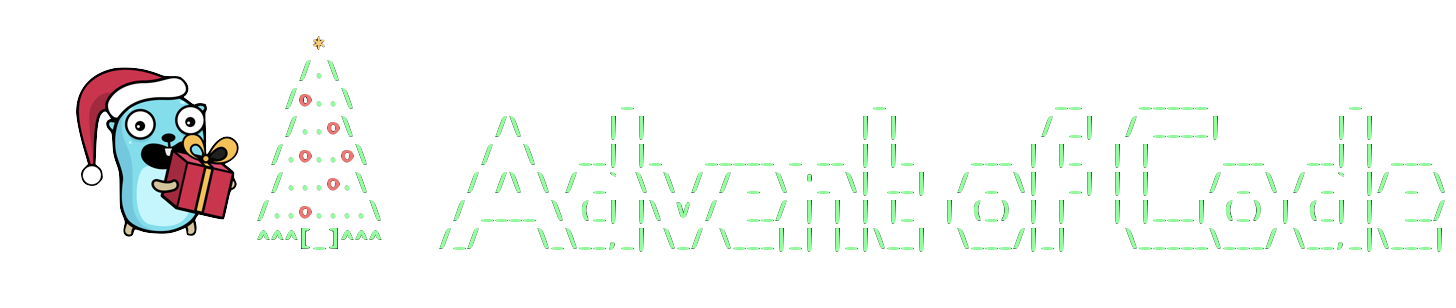
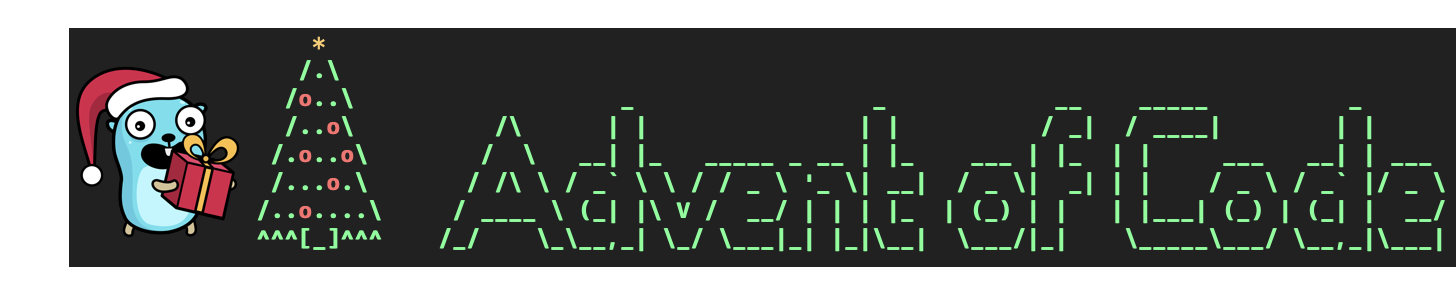
day three, changed image and added the script for it

diff --git a/2015/three/three.go b/2015/three/three.go
@@ -1,0 +1,179 @@
+package main
+
+import (
+	"bufio"
+	"fmt"
+	"os"
+)
+
+type point struct {
+	x int
+	y int
+}
+
+func main() {
+	// Houses that got more than one present
+	diff_houses := 1
+	// Map each move to a cartesian coordinate, and store it in a map,
+	// so we can efficiently check if we've visited that house before or not
+	visited := make(map[point]int)
+	// Starting position
+	position := point{0, 0}
+	// Mark it as visited
+	visited[position] = 1
+
+	f, err := os.Open("input.txt")
+	if err != nil {
+		panic(err)
+	}
+	defer f.Close()
+
+	scanner := bufio.NewReader(f)
+
+	for {
+		move, _, e := scanner.ReadRune()
+		if e != nil {
+			// end of file
+			break
+		}
+
+		// For each move, calculate its new position, mark it has visited if it has not been yet visited
+		// Also, if it has not been visited, increase the number of different houses visited
+		switch move {
+		case '>':
+			position.x += 1
+			if visited[position] == 0 {
+				visited[position] = 1
+				diff_houses += 1
+			}
+		case '<':
+			position.x -= 1
+			// Meaning we havent visited
+			if visited[position] == 0 {
+				visited[position] = 1
+				diff_houses += 1
+			}
+		case '^':
+			position.y += 1
+			if visited[position] == 0 {
+				visited[position] = 1
+				diff_houses += 1
+			}
+		case 'v':
+			position.y -= 1
+			if visited[position] == 0 {
+				visited[position] = 1
+				diff_houses += 1
+			}
+		}
+	}
+
+	fmt.Printf("Part1: Number of houses that received at least one present: %d\n", diff_houses)
+
+	// Start part two
+	parttwo()
+
+}
+
+func parttwo() {
+	// Houses that got more than one present
+	diff_houses := 1
+	// Map each move to a cartesian coordinate, and store it in a map,
+	// so we can efficiently check if we've visited that house before or not
+	visited := make(map[point]int)
+	// Starting position
+	santa_position := point{0, 0}
+	robo_position := point{0, 0}
+	// Mark it as visited
+	visited[santa_position] = 1
+	visited[robo_position] = 1
+
+	f, err := os.Open("input.txt")
+	if err != nil {
+		panic(err)
+	}
+	defer f.Close()
+
+	scanner := bufio.NewReader(f)
+
+	// Flag to differentiate between santa's and robots turn (Santa = True, Robot = False)
+	santaOrRobot := true
+	for {
+		move, _, e := scanner.ReadRune()
+		if e != nil {
+			// end of file
+			break
+		}
+
+		// For each move, calculate its new position, mark it has visited if it has not been yet visited
+		// Also, if it has not been visited, increase the number of different houses visited
+		switch move {
+		case '>':
+			if santaOrRobot {
+				santa_position.x += 1
+				if visited[santa_position] == 0 {
+					visited[santa_position] = 1
+					diff_houses += 1
+				}
+				santaOrRobot = !santaOrRobot
+			} else {
+				robo_position.x += 1
+				if visited[robo_position] == 0 {
+					visited[robo_position] = 1
+					diff_houses += 1
+				}
+				santaOrRobot = !santaOrRobot
+			}
+		case '<':
+			if santaOrRobot {
+				santa_position.x -= 1
+				// Meaning we havent visited
+				if visited[santa_position] == 0 {
+					visited[santa_position] = 1
+					diff_houses += 1
+				}
+				santaOrRobot = !santaOrRobot
+			} else {
+				robo_position.x -= 1
+				if visited[robo_position] == 0 {
+					visited[robo_position] = 1
+					diff_houses += 1
+				}
+				santaOrRobot = !santaOrRobot
+			}
+		case '^':
+			if santaOrRobot {
+				santa_position.y += 1
+				if visited[santa_position] == 0 {
+					visited[santa_position] = 1
+					diff_houses += 1
+				}
+				santaOrRobot = !santaOrRobot
+			} else {
+				robo_position.y += 1
+				if visited[robo_position] == 0 {
+					visited[robo_position] = 1
+					diff_houses += 1
+				}
+				santaOrRobot = !santaOrRobot
+			}
+		case 'v':
+			if santaOrRobot {
+				santa_position.y -= 1
+				if visited[santa_position] == 0 {
+					visited[santa_position] = 1
+					diff_houses += 1
+				}
+				santaOrRobot = !santaOrRobot
+			} else {
+				robo_position.y -= 1
+				if visited[robo_position] == 0 {
+					visited[robo_position] = 1
+					diff_houses += 1
+				}
+				santaOrRobot = !santaOrRobot
+			}
+		}
+	}
+	fmt.Printf("Part2: Number of houses that received at least one present: %d\n", diff_houses)
+}
